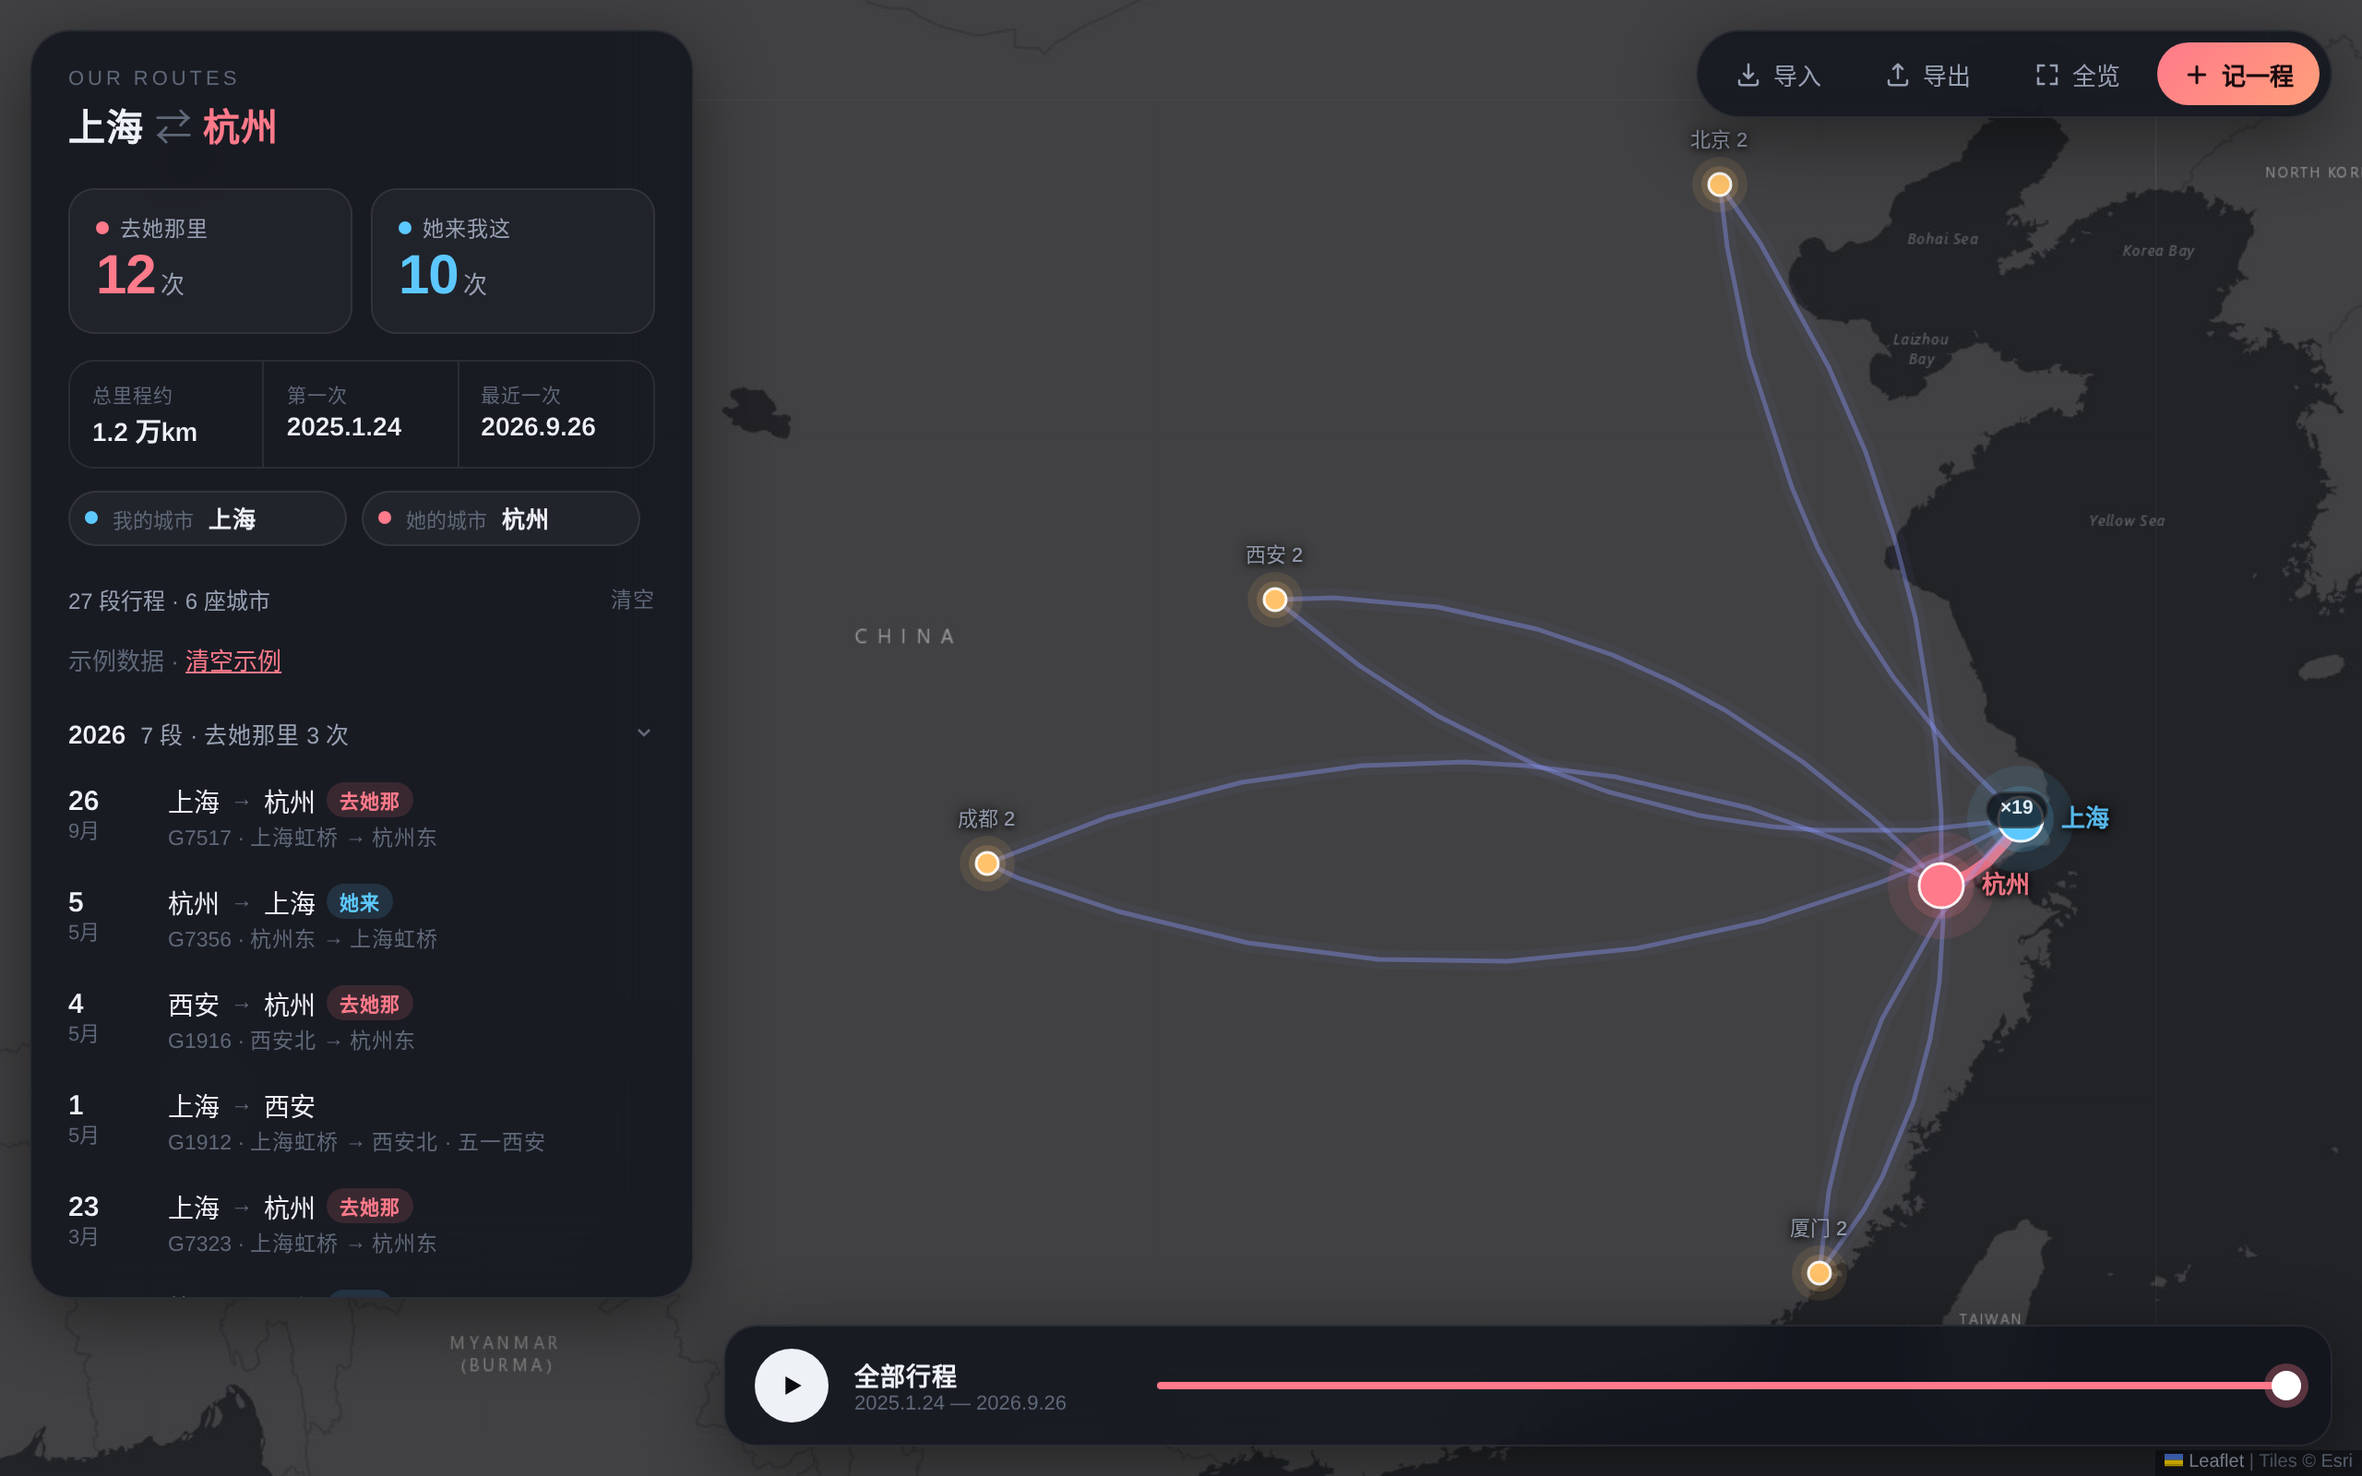
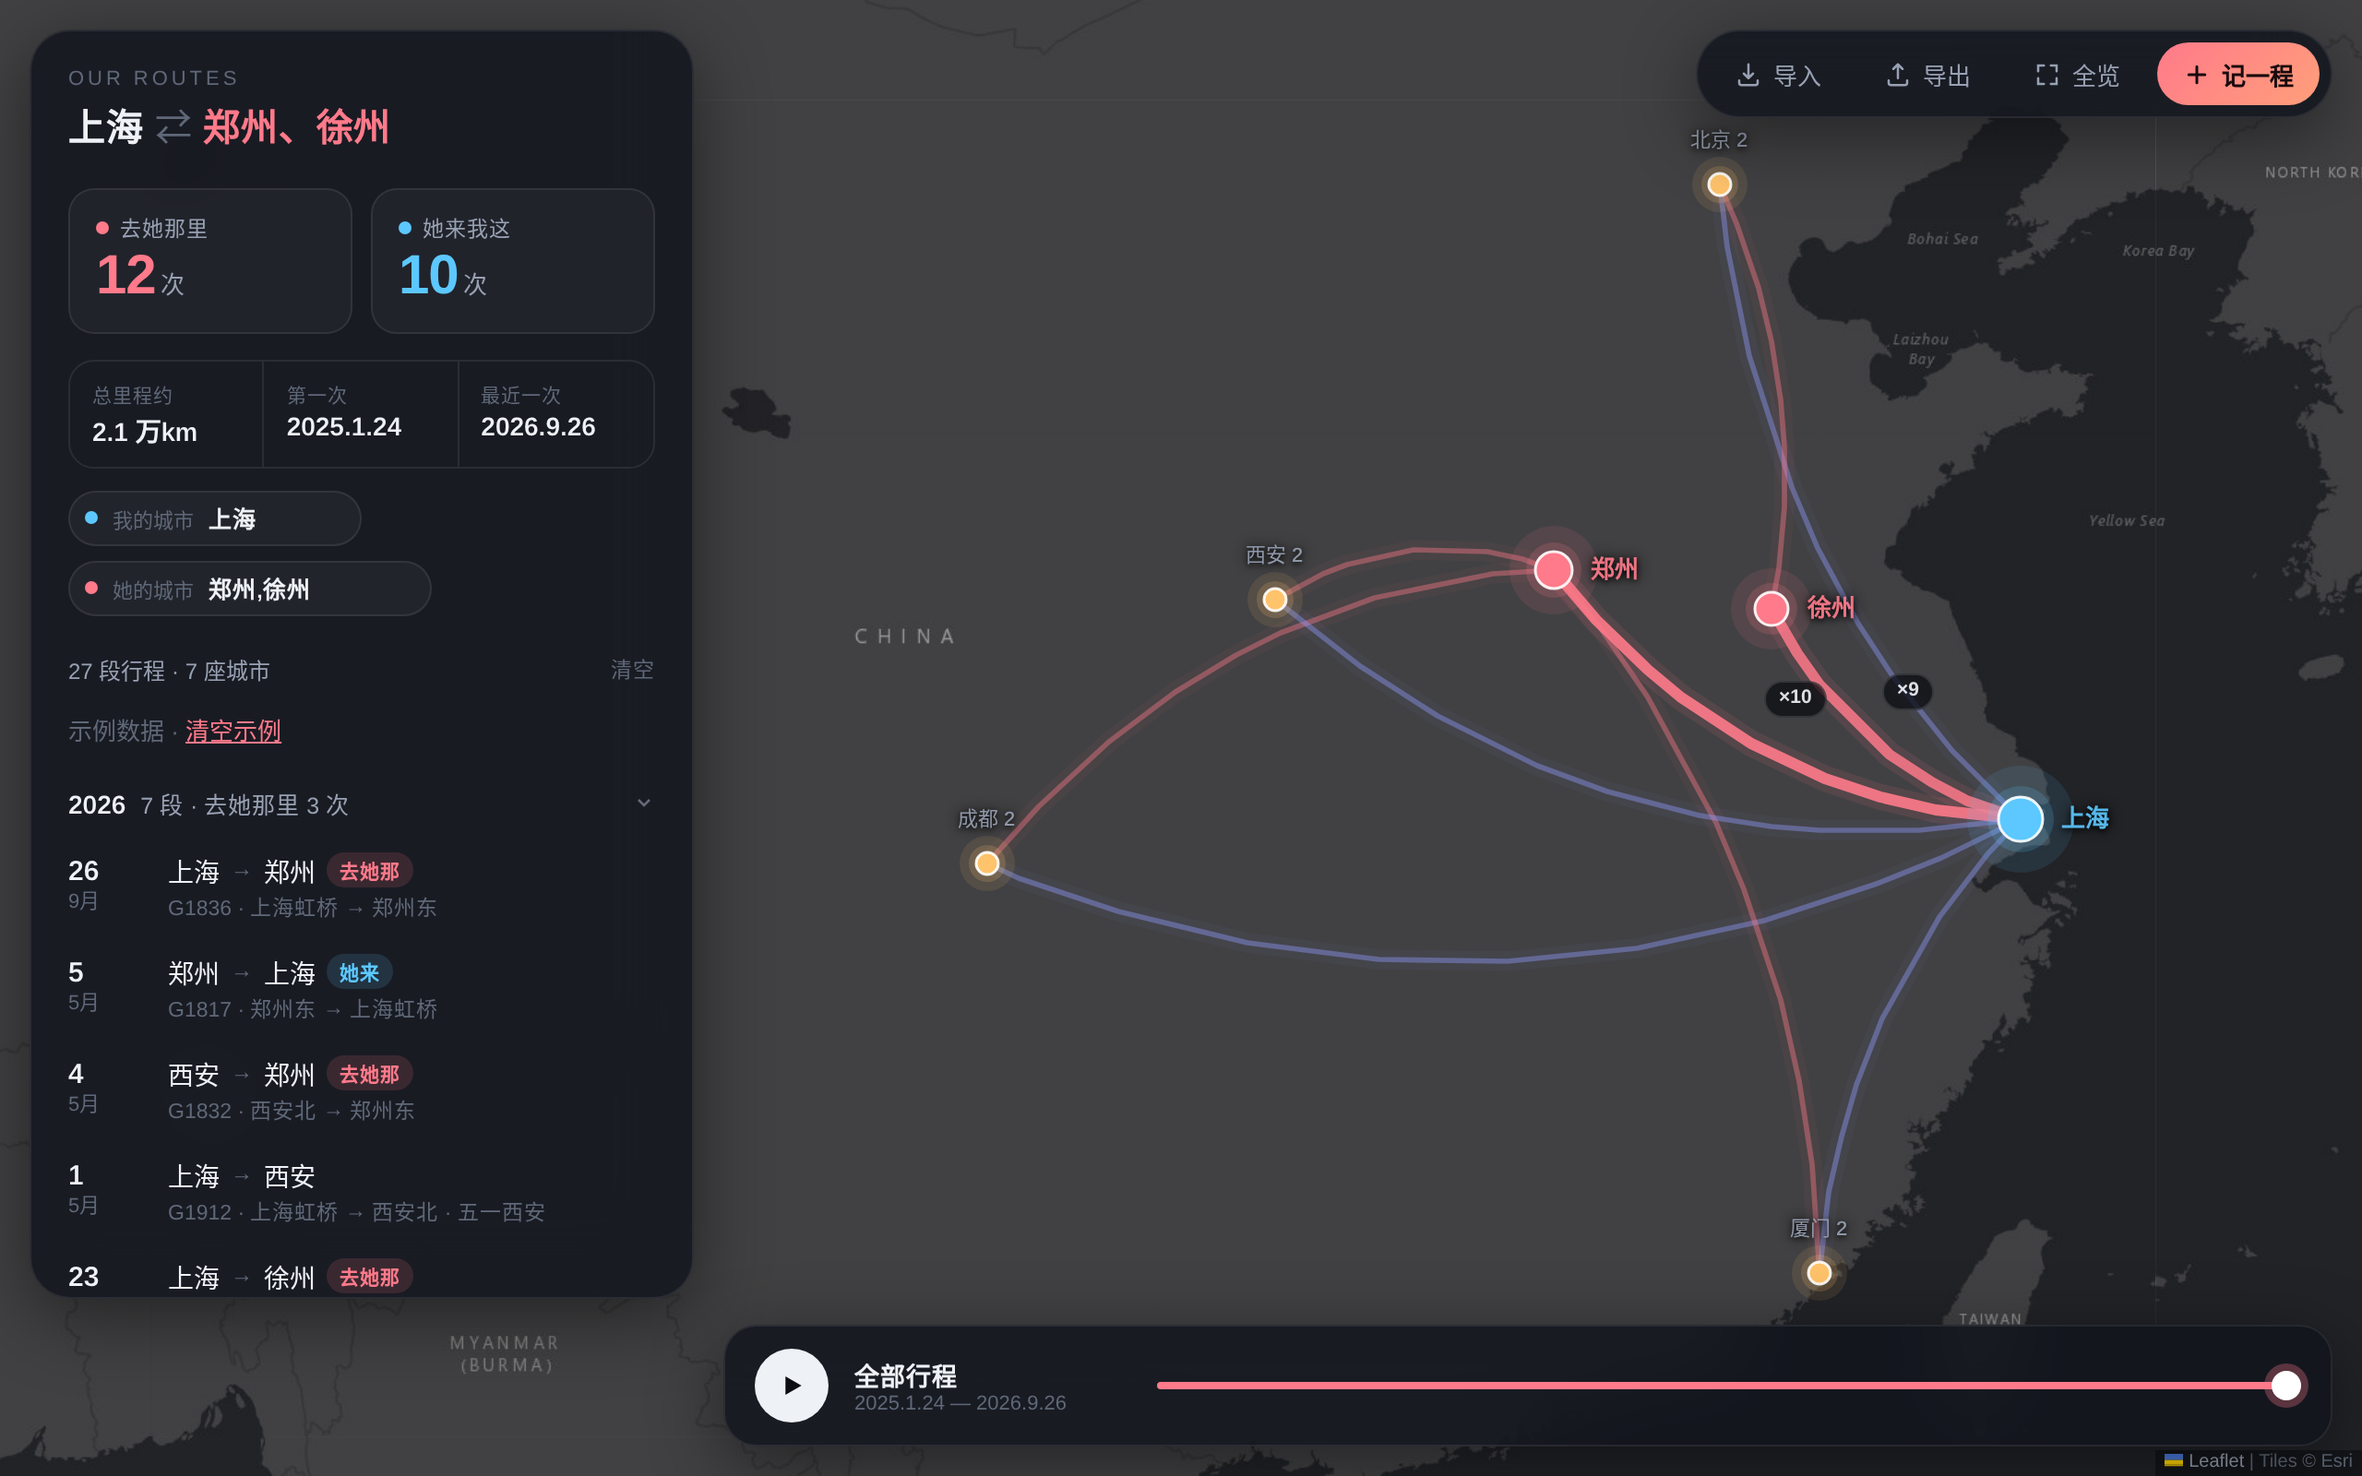
Support multiple 她的城市 (comma/顿号)
Parse her cities as a list; 去她那里 / 她来我这 / map highlights
match any of them. Default placeholder 郑州,徐州.

diff --git a/index.html b/index.html
@@ -51,7 +51,7 @@ button,input,textarea{font:inherit;color:inherit}
 .meta .k{font-size:10.5px;color:var(--dim)} .meta .v{font-size:14px;font-weight:600;margin-top:2px;font-variant-numeric:tabular-nums;white-space:nowrap}
 .cities{display:flex;gap:8px;padding:12px 20px 4px;flex-wrap:wrap}
 .chip{display:flex;align-items:center;gap:8px;padding:6px 10px 6px 8px;border-radius:999px;background:rgba(255,255,255,.04);border:1px solid var(--line);font-size:12.5px;cursor:text}
-.chip input{width:64px;background:transparent;border:0;outline:0;font-weight:600}
+.chip input{width:72px;min-width:56px;background:transparent;border:0;outline:0;font-weight:600}
 .chip .l{color:var(--dim);font-size:11px}
 .sec{display:flex;justify-content:space-between;align-items:center;padding:16px 20px 8px;font-size:12px;color:var(--mut)}
 .sec .a{color:var(--dim);cursor:pointer;font-size:11.5px} .sec .a:hover{color:var(--tx)}
@@ -177,7 +177,7 @@ pre.code{background:rgba(0,0,0,.35);border:1px solid var(--line);border-radius:1
   </div>
   <div class="cities">
     <label class="chip"><span class="dot" style="background:var(--home)"></span><span class="l">我的城市</span><input id="cHome" placeholder="上海" /></label>
-    <label class="chip"><span class="dot" style="background:var(--her)"></span><span class="l">她的城市</span><input id="cHer" placeholder="杭州" /></label>
+    <label class="chip"><span class="dot" style="background:var(--her)"></span><span class="l">她的城市</span><input id="cHer" placeholder="郑州,徐州" style="width:110px" title="多个城市用逗号或顿号分隔" /></label>
   </div>
   <div class="sec"><span id="sCount">0 段行程 · 0 座城市</span><span class="a" id="bClear">清空</span></div>
   <div class="list" id="list"></div>
@@ -223,21 +223,21 @@ pre.code{background:rgba(0,0,0,.35);border:1px solid var(--line);border-radius:1
 (() => {
 'use strict';
 const $ = s => document.querySelector(s);
-const K = { data: 'trip-map-v3', home: 'trip-map-home', her: 'trip-map-her', geo: 'trip-map-geo', sample: 'trip-map-sample' };
+const K = { data: 'trip-map-v3', home: 'trip-map-home', her: 'trip-map-her', geo: 'trip-map-geo', sample: 'trip-map-sample-v2' };
 
 const SAMPLE = [
-  ['2025-01-24','上海虹桥','杭州东','G7311',''],['2025-01-26','杭州东','上海虹桥','G7368',''],
-  ['2025-02-14','上海虹桥','杭州东','G7501','情人节'],['2025-02-16','杭州东','上海虹桥','G7586',''],
-  ['2025-03-08','杭州东','上海虹桥','G7380','她来上海'],['2025-03-10','上海虹桥','杭州东','G7319',''],
-  ['2025-04-04','上海虹桥','杭州东','G7337','清明'],['2025-04-06','杭州东','上海虹桥','G7390',''],
-  ['2025-05-01','上海虹桥','成都东','G1974','一起去成都'],['2025-05-05','成都东','杭州东','G1972',''],['2025-05-05','杭州东','上海虹桥','G7552',''],
-  ['2025-06-20','杭州东','上海虹桥','G7356',''],['2025-06-22','上海虹桥','杭州东','G7343',''],
-  ['2025-08-09','上海虹桥','杭州东','G7525',''],['2025-08-10','杭州东','厦门北','G1653','海边'],['2025-08-14','厦门北','上海虹桥','G1658',''],
-  ['2025-10-01','上海虹桥','北京南','G2','国庆北京'],['2025-10-05','北京南','杭州东','G35',''],['2025-10-06','杭州东','上海虹桥','G7360',''],
-  ['2025-12-31','上海虹桥','杭州东','G7511','跨年'],['2026-01-02','杭州东','上海虹桥','G7588',''],
-  ['2026-03-21','杭州东','上海虹桥','G7372',''],['2026-03-23','上海虹桥','杭州东','G7323',''],
-  ['2026-05-01','上海虹桥','西安北','G1912','五一西安'],['2026-05-04','西安北','杭州东','G1916',''],['2026-05-05','杭州东','上海虹桥','G7356',''],
-  ['2026-09-26','上海虹桥','杭州东','G7517','']
+  ['2025-01-24','上海虹桥','郑州东','G1802',''],['2025-01-26','郑州东','上海虹桥','G1811',''],
+  ['2025-02-14','上海虹桥','徐州东','G122','情人节'],['2025-02-16','徐州东','上海虹桥','G123',''],
+  ['2025-03-08','郑州东','上海虹桥','G1804','她来上海'],['2025-03-10','上海虹桥','郑州东','G1815',''],
+  ['2025-04-04','上海虹桥','徐州东','G102','清明'],['2025-04-06','徐州东','上海虹桥','G103',''],
+  ['2025-05-01','上海虹桥','成都东','G1974','一起去成都'],['2025-05-05','成都东','郑州东','G2208',''],['2025-05-05','郑州东','上海虹桥','G1811',''],
+  ['2025-06-20','徐州东','上海虹桥','G129',''],['2025-06-22','上海虹桥','徐州东','G128',''],
+  ['2025-08-09','上海虹桥','郑州东','G1808',''],['2025-08-10','郑州东','厦门北','G1653','海边'],['2025-08-14','厦门北','上海虹桥','G1658',''],
+  ['2025-10-01','上海虹桥','北京南','G2','国庆北京'],['2025-10-05','北京南','徐州东','G105',''],['2025-10-06','徐州东','上海虹桥','G107',''],
+  ['2025-12-31','上海虹桥','郑州东','G1820','跨年'],['2026-01-02','郑州东','上海虹桥','G1821',''],
+  ['2026-03-21','徐州东','上海虹桥','G131',''],['2026-03-23','上海虹桥','徐州东','G130',''],
+  ['2026-05-01','上海虹桥','西安北','G1912','五一西安'],['2026-05-04','西安北','郑州东','G1832',''],['2026-05-05','郑州东','上海虹桥','G1817',''],
+  ['2026-09-26','上海虹桥','郑州东','G1836','']
 ].map((r,i)=>({id:'s'+i,date:r[0],from:r[1],to:r[2],train:r[3],note:r[4]}));
 
 let trips = [], home = '', her = '', isSample = false, geoCache = {};
@@ -257,6 +257,11 @@ function cityOf(raw) {
   return s;
 }
 const norm = s => cityOf(s);
+function parseCities(raw) {
+  return [...new Set(String(raw||'').split(/[,，、\s]+/).map(x=>cityOf(x.trim())).filter(Boolean))];
+}
+function herCities() { return parseCities(her); }
+function isHerCity(c) { const H = herCities(); return !!c && H.includes(cityOf(c)); }
 function coordOf(city) { return C[city] || geoCache[city] || null; }
 
 let lastNom = 0;
@@ -279,7 +284,13 @@ async function resolveUnknown() {
 /* ---------- storage ---------- */
 function load() {
   home = localStorage.getItem(K.home) ?? '上海';
-  her = localStorage.getItem(K.her) ?? '杭州';
+  her = localStorage.getItem(K.her) ?? '郑州,徐州';
+  // refresh demo once for multi-city her defaults
+  if (localStorage.getItem(K.sample) !== '1' && localStorage.getItem('trip-map-sample') === '1') {
+    trips = SAMPLE.map(t=>({...t})); isSample = true;
+    if (!localStorage.getItem(K.her) || localStorage.getItem(K.her) === '杭州') her = '郑州,徐州';
+    save(); return;
+  }
   const raw = localStorage.getItem(K.data);
   if (raw) { try { trips = JSON.parse(raw); isSample = localStorage.getItem(K.sample)==='1'; return; } catch(e){} }
   for (const old of ['ldr-trip-map-v2','ldr-trip-map-v1']) {
@@ -319,14 +330,15 @@ function visible(){ const s=sorted(); return upto<0 ? s : s.slice(0,upto+1); }
 
 function render(fit){
   arcL.clearLayers(); nodeL.clearLayers();
-  const vt = visible(), H = cityOf(her), M = cityOf(home);
+  const vt = visible(), Hs = herCities(), M = cityOf(home);
   const routes = new Map(), visits = new Map();
   for (const t of vt) {
     const a=cityOf(t.from), b=cityOf(t.to); if(!a||!b||a===b) continue;
     const pa=coordOf(a), pb=coordOf(b); if(!pa||!pb) continue;
     const key=[a,b].sort().join('|');
     const r = routes.get(key) || {a:[a,pa],b:[b,pb],n:0,ab:0,ba:0,her:false};
-    r.n++; (a<b? r.ab++ : r.ba++); if (b===H||a===H) r.her = r.her || ((a===M||b===M));
+    r.n++; (a<b? r.ab++ : r.ba++);
+    if ((Hs.includes(a)||Hs.includes(b)) && (a===M||b===M||Hs.includes(a)||Hs.includes(b))) r.her = true;
     routes.set(key,r);
     for (const c of [[a,pa],[b,pb]]) { const v=visits.get(c[0])||{p:c[1],n:0}; v.n++; visits.set(c[0],v); }
   }
@@ -342,7 +354,7 @@ function render(fit){
   }
   const maxV = Math.max(1,...[...visits.values()].map(v=>v.n));
   for (const [c,v] of visits) {
-    const isH=c===H, isM=c===M, col = isH?'#ff7a8a':isM?'#5cc8ff':'#ffc36b';
+    const isH=Hs.includes(c), isM=c===M, col = isH?'#ff7a8a':isM?'#5cc8ff':'#ffc36b';
     const rad = 4 + 8*Math.sqrt(v.n/maxV);
     L.circleMarker(v.p,{radius:rad*2.4,stroke:false,fillColor:col,fillOpacity:.1,interactive:false}).addTo(nodeL);
     L.circleMarker(v.p,{radius:rad*1.5,stroke:false,fillColor:col,fillOpacity:.18,interactive:false}).addTo(nodeL);
@@ -361,32 +373,34 @@ function fitAll(){
 /* ---------- stats & list ---------- */
 const fmtD = d => d ? d.replace(/^(\d{4})-(\d\d)-(\d\d)$/,(m,y,a,b)=>`${y}.${+a}.${+b}`) : '—';
 function stats(){
-  const H=cityOf(her), M=cityOf(home), all=sorted();
-  const toHer = all.filter(t=>cityOf(t.to)===H && H).length, toMe = all.filter(t=>cityOf(t.to)===M && M && cityOf(t.from)===H).length;
+  const Hs=herCities(), M=cityOf(home), all=sorted();
+  const toHer = all.filter(t=>isHerCity(t.to)).length;
+  const toMe = all.filter(t=>M && isHerCity(t.from) && cityOf(t.to)===M).length;
   let km=0; for (const t of all){const a=coordOf(cityOf(t.from)),b=coordOf(cityOf(t.to)); if(a&&b) km+=hav(a,b);}
   $('#sHer').innerHTML = `${toHer}<small>次</small>`; $('#sHome').innerHTML = `${toMe}<small>次</small>`;
   $('#sKm').textContent = km>=10000 ? (km/10000).toFixed(1)+' 万km' : Math.round(km).toLocaleString()+' km';
   $('#sFirst').textContent = fmtD(all[0]?.date); $('#sLast').textContent = fmtD(all.at(-1)?.date);
   const cs = new Set(all.flatMap(t=>[cityOf(t.from),cityOf(t.to)]).filter(Boolean));
   $('#sCount').textContent = `${all.length} 段行程 · ${cs.size} 座城市`;
-  $('#headline').innerHTML = H&&M ? `${M} <span style="color:var(--dim);font-weight:400">⇄</span> <b>${H}</b>` : '来回的路';
+  const herLabel = Hs.length ? Hs.join('、') : '';
+  $('#headline').innerHTML = herLabel&&M ? `${M} <span style="color:var(--dim);font-weight:400">⇄</span> <b>${herLabel}</b>` : '来回的路';
   const pr=$('#pR'); pr.max = Math.max(0,all.length-1); if (upto<0) pr.value = pr.max; setP();
 }
 const closedYears = new Set(JSON.parse(localStorage.getItem('trip-map-closed')||'[]'));
 function list(){
-  const H=cityOf(her), M=cityOf(home), all=sorted().reverse(), el=$('#list');
+  const Hs=herCities(), M=cityOf(home), all=sorted().reverse(), el=$('#list');
   if (!all.length){ el.innerHTML='<div class="empty">还没有行程<br>点右上角「记一程」或导入 12306 记录</div>'; return; }
   if (isSample) el.innerHTML = `<div class="empty" style="padding:6px 8px 10px;text-align:left">示例数据 · <a href="#" id="clrS" style="color:var(--her)">清空示例</a></div>`; else el.innerHTML='';
   const by = {}; for (const t of all){ const y=(t.date||'未知').slice(0,4); (by[y]=by[y]||[]).push(t); }
   for (const y of Object.keys(by).sort().reverse()){
-    const g=by[y], nh=g.filter(t=>cityOf(t.to)===H).length;
+    const g=by[y], nh=g.filter(t=>isHerCity(t.to)).length;
     const box=document.createElement('div'); box.className='yr'+(closedYears.has(y)?' closed':'');
     box.innerHTML = `<div class="yh"><span><b>${y}</b>${g.length} 段${nh?` · 去她那里 ${nh} 次`:''}</span><svg class="car" width="12" height="12" viewBox="0 0 24 24" fill="none" stroke="currentColor" stroke-width="2.5"><path d="M6 9l6 6 6-6"/></svg></div><div class="ys"></div>`;
     box.querySelector('.yh').onclick=()=>{box.classList.toggle('closed'); box.classList.contains('closed')?closedYears.add(y):closedYears.delete(y); localStorage.setItem('trip-map-closed',JSON.stringify([...closedYears]));};
     const ys=box.querySelector('.ys');
     for (const t of g){
       const a=cityOf(t.from), b=cityOf(t.to), d=(t.date||'').slice(5).split('-');
-      const tag = b===H ? '<span class="badge her">去她那</span>' : (b===M && a===H) ? '<span class="badge home">她来</span>' : '';
+      const tag = isHerCity(b) ? '<span class="badge her">去她那</span>' : (b===M && isHerCity(a)) ? '<span class="badge home">她来</span>' : '';
       const sub = [t.train, (t.from!==a||t.to!==b)?`${t.from} → ${t.to}`:'', t.note].filter(Boolean).join(' · ');
       const it=document.createElement('div'); it.className='it';
       it.innerHTML = `<div class="d"><b>${d[1]?+d[1]:''}</b>${d[0]?+d[0]+'月':''}</div><div style="min-width:0"><div class="r"><span>${esc(a)}</span><i>→</i><span>${esc(b)}</span>${tag}</div>${sub?`<div class="s">${esc(sub)}</div>`:''}</div><button class="x" title="删除">✕</button>`;
@@ -447,7 +461,7 @@ document.querySelectorAll('.mo').forEach(m=>m.onclick=e=>{if(e.target===m)m.clas
 function openAdd(t){
   $('#aTitle').textContent = t?'编辑行程':'记一程';
   $('#fId').value=t?.id||''; $('#fDate').value=t?.date||new Date().toISOString().slice(0,10);
-  $('#fFrom').value=t?.from||home||''; $('#fTo').value=t?.to||her||''; $('#fTrain').value=t?.train||''; $('#fNote').value=t?.note||'';
+  $('#fFrom').value=t?.from||home||''; $('#fTo').value=t?.to||(herCities()[0]||her.split(/[,，、]/)[0]||'')||''; $('#fTrain').value=t?.train||''; $('#fNote').value=t?.note||'';
   open('#mAdd'); setTimeout(()=>$('#fFrom').focus(),50);
 }
 $('#bAdd').onclick=()=>openAdd();
